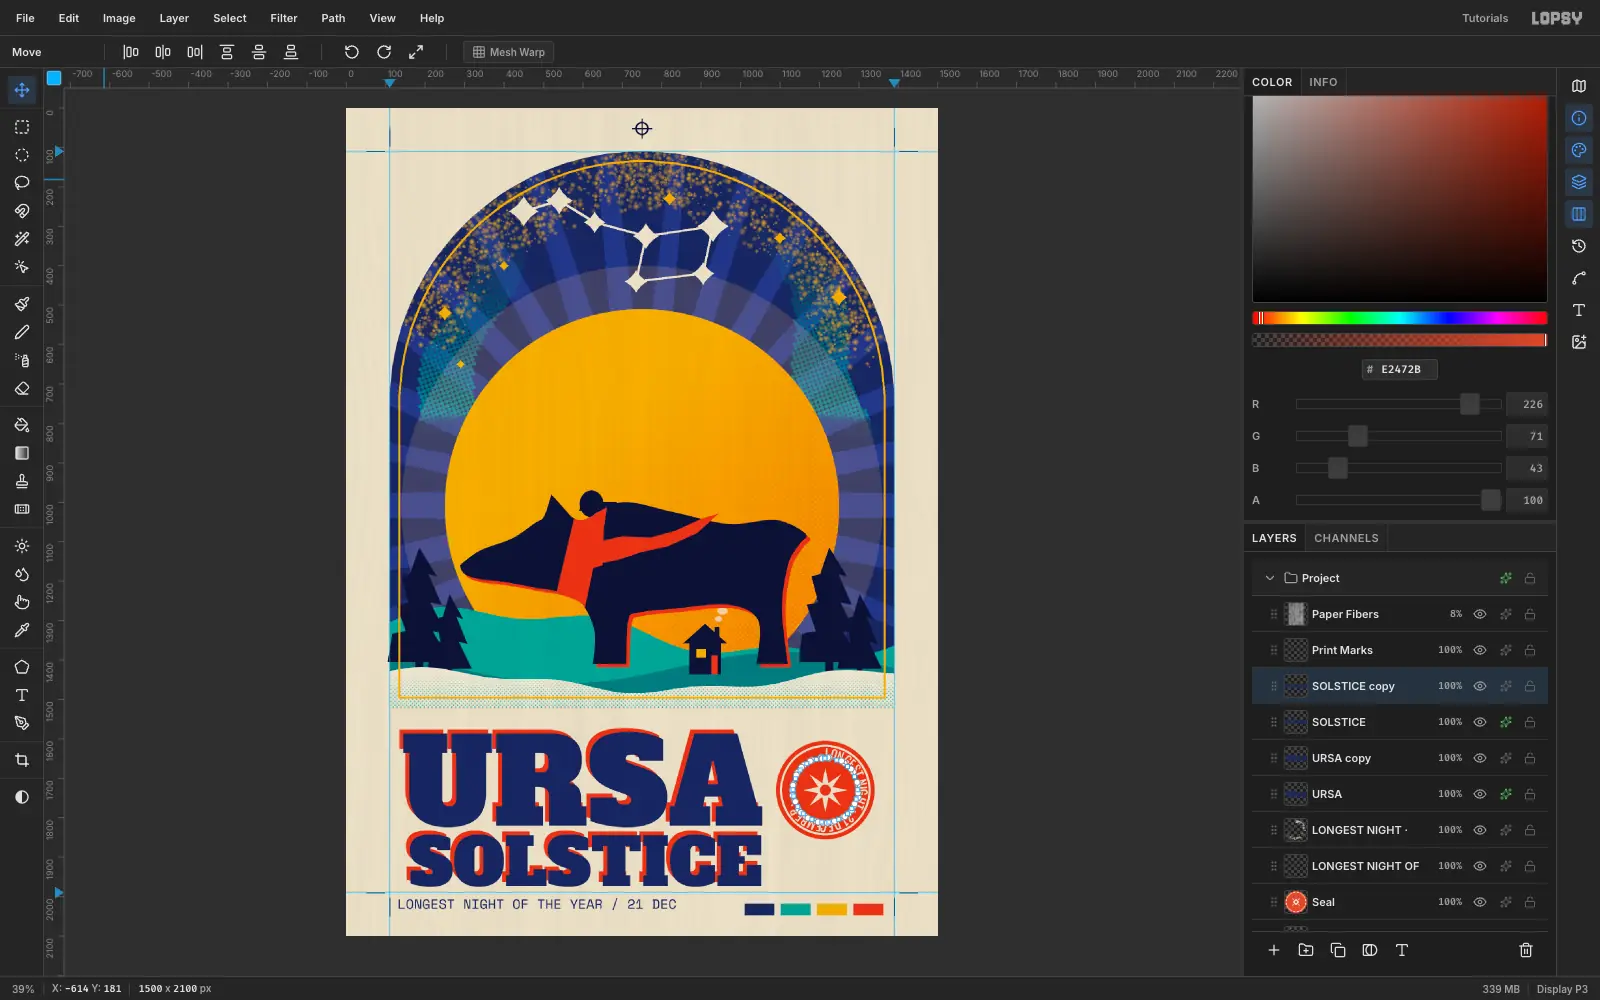
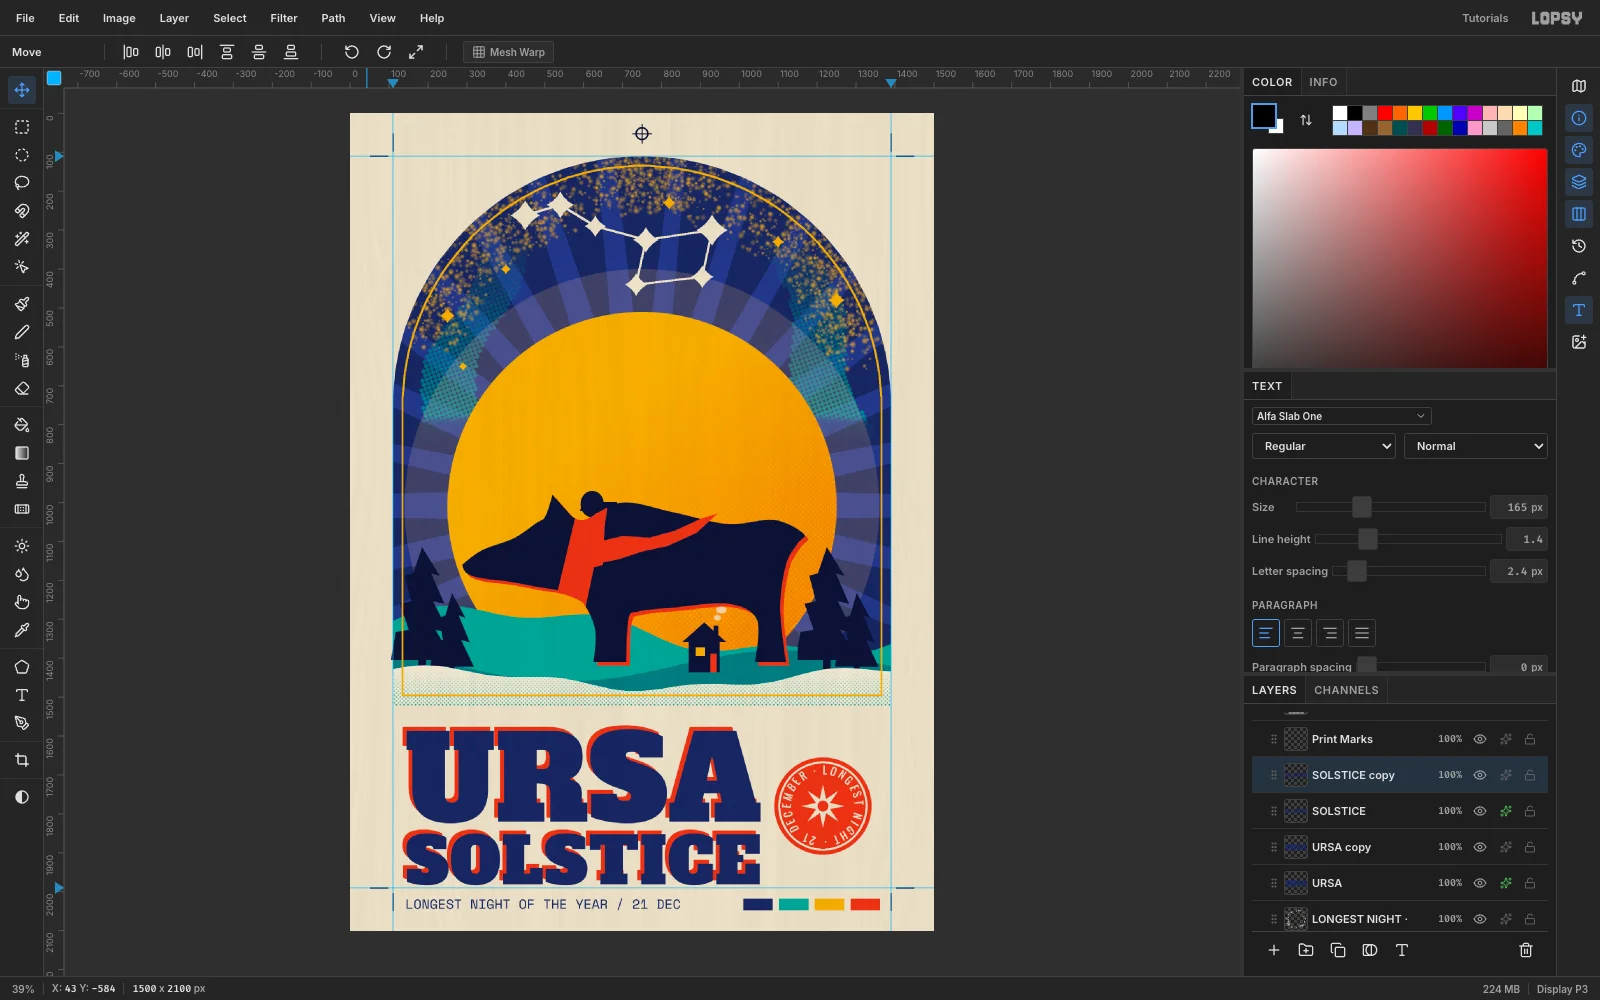
docs(tutorials): fix misaligned text on the solstice card
The seal's ring text only covered part of the circle, SOLSTICE was narrower
than URSA, and the credit line and badge sat off the headline block. Space
the ring text and SOLSTICE, re-align the layers, and refresh the finished
image, cover, final step and project file.

diff --git a/tutorials/screen-print-bear-solstice-holiday-card/index.md b/tutorials/screen-print-bear-solstice-holiday-card/index.md
@@ -275,7 +275,9 @@ That one thin paper ring is all the seal needs to feel stamped.
 
 ![The words LONGEST NIGHT 21 DECEMBER bent around the seal's ring in cream capitals](28-ring-text.webp)
 
-Pick the **Text** tool, set the foreground to paper, choose **Oswald** at **Size 30**, click near the seal and type `LONGEST NIGHT · 21 DECEMBER · `. While the text is still open, pick the path in the **Path** dropdown in the options bar. The words bend around the circle. Commit the text.
+Pick the **Text** tool, set the foreground to paper, choose **Oswald** at **Size 28**, click near the seal and type `LONGEST NIGHT · 21 DECEMBER · `. While the text is still open, pick the path in the **Path** dropdown in the options bar. The words bend around the circle. Commit the text.
+
+Text on a path only runs as far as its letters do, so at the default spacing the words cover about two thirds of the ring. Open the **Text** panel on the right, select the text layer and set **Letter spacing** to **6** so the phrase wraps the whole circle and the closing dot meets the first letter.
 
 If the words don't meet at the join, add or remove a space at the end.
 
@@ -348,6 +350,8 @@ Looking at the whole piece from a distance is the best editing tool you have.
 
 - Select `Paper Fibers` and lower its opacity to **8%**.
 - Select `Moon Halo` and bring it back down to **18%**.
-- SOLSTICE and its copy sit slightly left of URSA. Select each and tap the right arrow with the Move tool until the left edges line up.
+- SOLSTICE and its copy sit slightly left of URSA and a little narrower. Select each, set **Letter spacing** to **2.4** in the Text panel, then nudge it with the Move tool until both words share the same left and right edges.
+- Move the credit line and its colour swatches so they sit level with each other and the same distance from the headline and the crop marks.
+- Drop the seal and its ring text about 50 px so the badge is centred on the two-line headline.
 
 Then choose **File → Quick Export PNG**.
